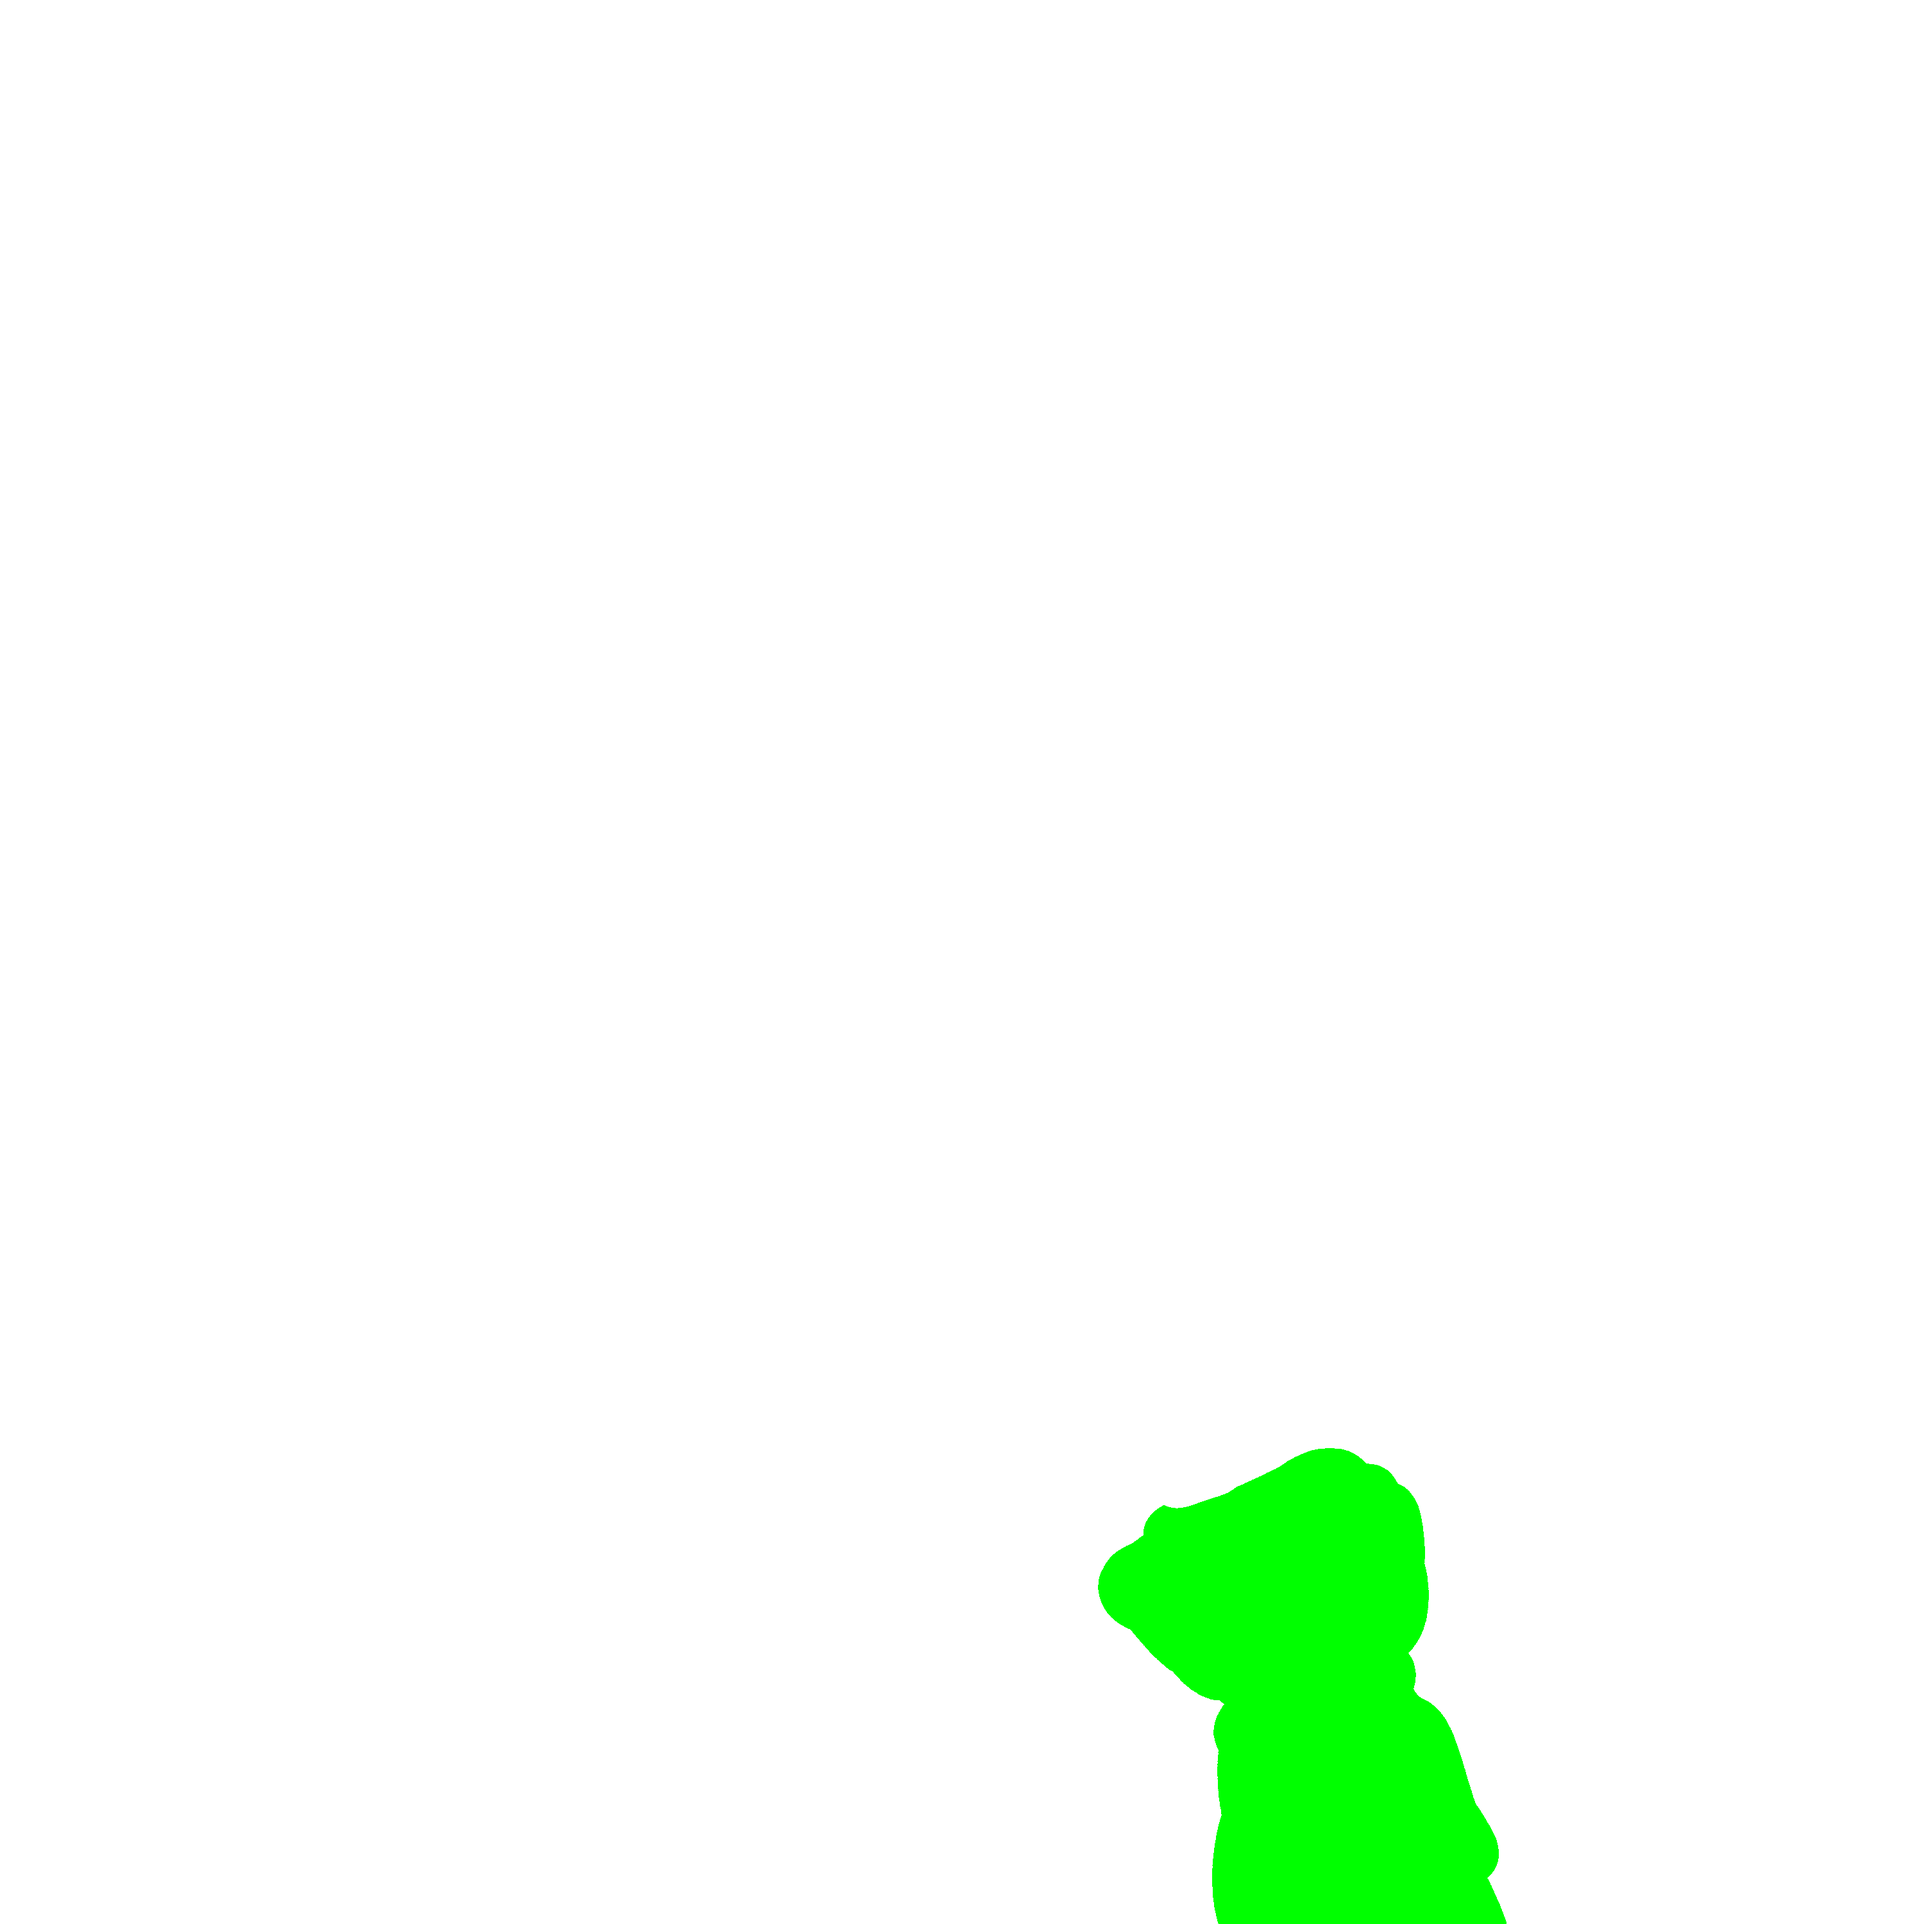
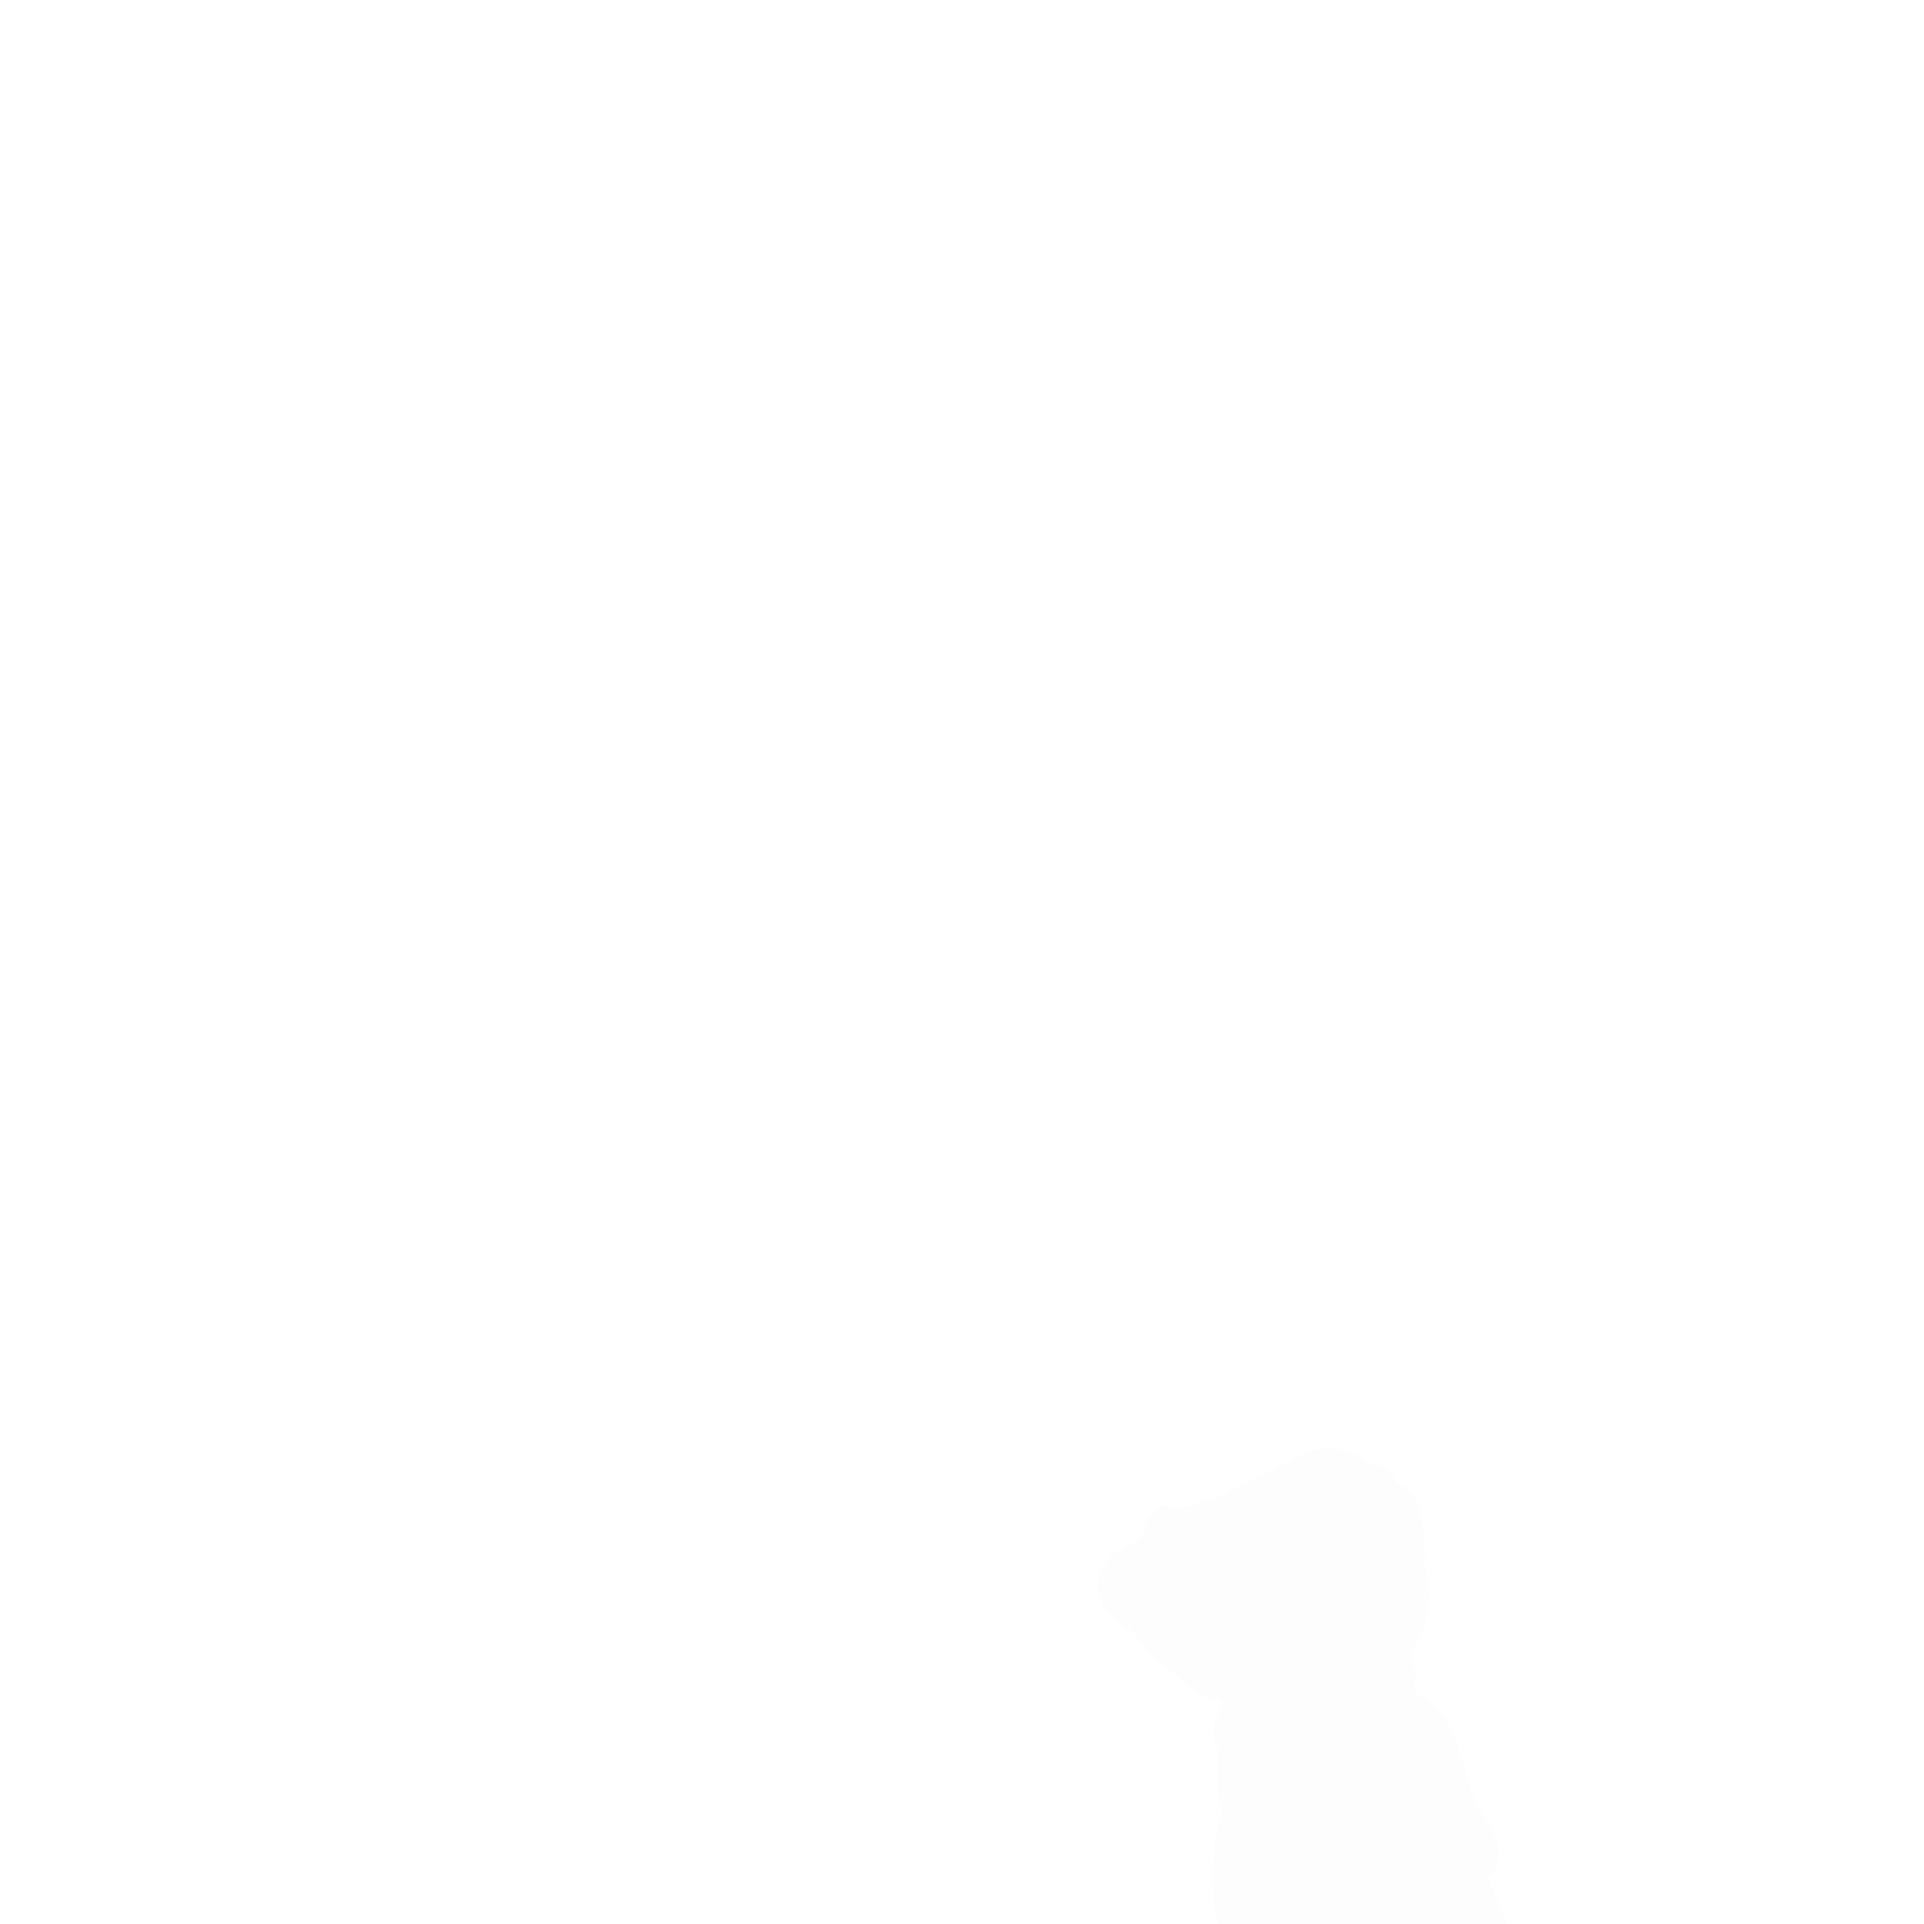
UPDATED: Finished functionalities

Changed region(s): [[0.558, 0.744, 0.806, 1.0]]

diff --git a/src/NFTImageCollection.py b/src/NFTImageCollection.py
@@ -10,13 +10,14 @@ from pathlib import Path
 
 
 # Contains the necessary data and functions
-class NFTCollection:
+class NFTImageCollection:
     # Number used to increase the RGB value for each RGB iteration
-    RGB_STEP = 64
+    RGB_STEP = 127  # With 127 We get 3 values: 0, 128, 254 --> 3 ^ 3 = 27 combs of colour
+    DEFAULT_INPUT = (253, 253, 253)
 
     # Generate the list of trait names from the names of the folder inside self.DATA_FOLDER_PATH and initializes
     # NFTCollection object
-    def __init__(self):
+    def __init__(self, trait_folder_names):
         # Obtain absolute path location
         # This return absolute path to the file we are running
         self.BASE_PATH = str(Path(os.path.realpath(__file__)).parent.parent)
@@ -26,7 +27,10 @@ class NFTCollection:
         self.OUTPUT_FOLDER_PATH = os.path.join(self.BASE_PATH, "out")
 
         # Initialize data
-        self.traitNameList = os.listdir(self.DATA_FOLDER_PATH)
+        if trait_folder_names is None:
+            self.traitNameList = os.listdir(self.DATA_FOLDER_PATH)
+        else:
+            self.traitNameList = trait_folder_names
         self.traitFilesVariationsDictionary = {}
 
         # Generate output file structure
@@ -48,7 +52,8 @@ class NFTCollection:
             for r in range(0, 256, self.RGB_STEP):
                 for g in range(0, 256, self.RGB_STEP):
                     for b in range(0, 256, self.RGB_STEP):
-                        current_image = CustomImage.change_color_static(current_trivial_trait_image, (255, 255, 255), (r, g, b, 0))
+                        print("Variating trait " + str(traitName) + " with RGB code (" + str(r)+ ", " + str(g) + ", " + str(b) + ")")
+                        current_image = CustomImage.change_color_static(current_trivial_trait_image, self.DEFAULT_INPUT, (r, g, b))
                         file_path = os.path.join(self.TEMPORAL_FOLDER_PATH, traitName, str(r) + "_" + str(g) + "_" + str(b) + ".png")
                         self.traitFilesVariationsDictionary[traitName].append([file_path, 1])
                         current_image.save_image(file_path)
@@ -83,12 +88,11 @@ class NFTCollection:
         while index_iterator.has_next():
             current_images = []
             name = str(num_variations) + "_"
-            print("\nVariation " + str(num_variations) + ":")
+            print("\nVariation " + str(num_variations) + " using combination of varying traits " + str(index_iterator))
             for traitName in self.traitFilesVariationsDictionary.keys():
                 print(self.traitFilesVariationsDictionary[traitName][index_iterator.currentValues[traitName]][0])
                 name += traitName + "_" + self.traitFilesVariationsDictionary[traitName][index_iterator.currentValues[traitName]][0].split("/")[-1].split(".")[0] + "__"
                 current_images.append(self.traitFilesVariationsDictionary[traitName][index_iterator.currentValues[traitName]][0])
-            print(index_iterator)
 
             CustomImage.do_composite_static(current_images).save_image(os.path.join(self.OUTPUT_FOLDER_PATH, name + ".png"))
             index_iterator.next()
@@ -97,7 +101,6 @@ class NFTCollection:
     def generate_weighted_variations(self, num):
         counter = 1
         while counter <= num:
-            print("\nVariation " + str(counter))
             current_images = []
             name = ""
             for key in self.traitFilesVariationsDictionary.keys():
@@ -106,16 +109,36 @@ class NFTCollection:
                     current_weights.append(traitVariation[1])
 
                 chosen_path = random.choices(self.traitFilesVariationsDictionary[key], current_weights)[0][0]
-                print(key + ": " + chosen_path.split("/")[-1].split(".")[0])
                 name += key + "_" + chosen_path.split("/")[-1].split(".")[0] + "__"
                 current_images.append(chosen_path)
 
+            print("Variation " + str(counter) + ": " + str(name))
             CustomImage.do_composite_static(current_images).save_image(os.path.join(self.OUTPUT_FOLDER_PATH, name + ".png"))
             counter += 1
 
 
+def generate_rgb_repeat_variations():
+    nftCollection = NFTImageCollection(['background', 'eye', 'skin', 'mouth', 'tie', 'skeleton'])
+    nftCollection.generate_trait_files_rgb()  # NFTCollection.generate_trait_files_trivial()
+    nftCollection.compute_relative_probability()
+    nftCollection.generate_repeat_variations()
+
+
+def generate_weighted_combinations(num_variations):
+    nftCollection = NFTImageCollection(['background', 'eye', 'skin', 'mouth', 'tie', 'skeleton'])
+    nftCollection.generate_trait_files_trivial()
+    nftCollection.compute_relative_probability()
+    nftCollection.generate_weighted_variations(num_variations)
+
+
+def generate_rgb_weighted_variations(num_variations):
+    nftCollection = NFTImageCollection(['background', 'eye', 'skin', 'mouth', 'tie', 'skeleton'])
+    nftCollection.generate_trait_files_rgb()
+    nftCollection.compute_relative_probability()
+    nftCollection.generate_weighted_variations(num_variations)
+
+
 if __name__ == '__main__':
-    NFTCollection = NFTCollection()
-    NFTCollection.generate_trait_files_trivial()  # NFTCollection.generate_trait_files_rgb()
-    NFTCollection.compute_relative_probability()
-    NFTCollection.generate_weighted_variations(100)  # NFTCollection.generate_repeat_variations()
+    # generate_rgb_repeat_variations()
+    # generate_weighted_combinations(100)
+    generate_rgb_weighted_variations(100)

diff --git a/src/CustomImage.py b/src/CustomImage.py
@@ -32,14 +32,13 @@ class CustomImage:
         r1, g1, b1 = rgb_pick[0], rgb_pick[1], rgb_pick[2]  # Original value
         r2, g2, b2 = rgb_substitute[0], rgb_substitute[1], rgb_substitute[2]  # Value that we want to replace it with
 
-        custom_image_array = custom_image.image
-        red, green, blue = custom_image_array[:, :, 0], custom_image_array[:, :, 1], custom_image_array[:, :, 2]
+        red, green, blue = custom_image.image[:, :, 0], custom_image.image[:, :, 1], custom_image.image[:, :, 2]
         mask = (red == r1) & (green == g1) & (blue == b1)
-        custom_image_array[:, :, :3][mask] = [r2, g2, b2]
 
-        custom_image = CustomImage(None)
-        custom_image.image = custom_image_array
-        return custom_image
+        ret = custom_image.copy()
+        ret.image[:, :, :3][mask] = [r2, g2, b2]
+
+        return ret
 
     def do_composite(self, images_list):
         im = Image.fromarray(self.image).convert('RGBA')
@@ -51,13 +50,14 @@ class CustomImage:
     # CustomImage instance with the result
     @staticmethod
     def do_composite_static(images_list):
-        im = None
+
         if type(images_list[0]) is CustomImage:  # Assuming image data
             im = Image.fromarray(images_list[0].image).convert('RGBA')
             for image in images_list[1:]:
                 im = Image.alpha_composite(im, Image.fromarray(image.image).convert('RGBA'))
         else:  # Assuming paths
             im = Image.open(images_list[0]).convert('RGBA')
+
             for image in images_list[1:]:
                 im = Image.alpha_composite(im, Image.open(image).convert('RGBA'))
 
